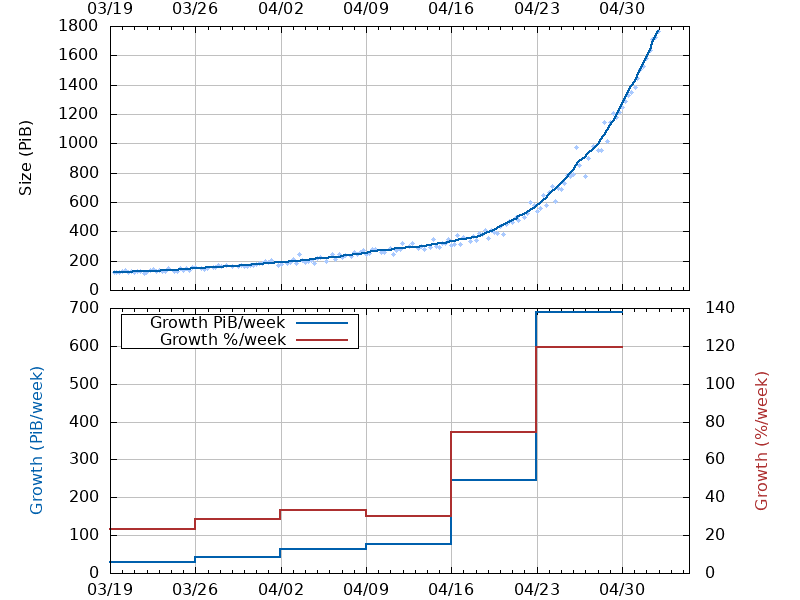
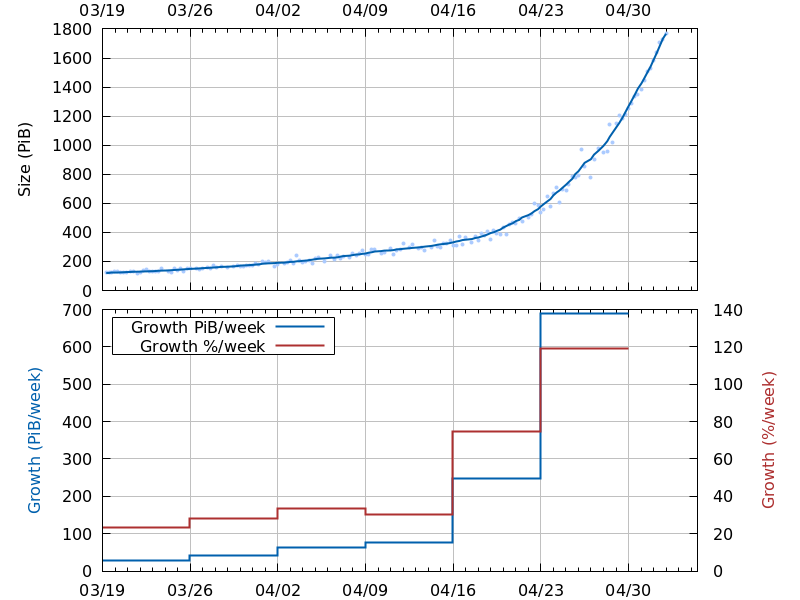
Use gnuplot terminals enhanced mode
Also remove x-axis constraints. Result still seems to work

diff --git a/README.md b/README.md
@@ -6,7 +6,7 @@ https://www.chiaexplorer.com/charts/netspace
 Open developer tools, look at the request to api2.chiaexplorer.com,
 which retrieves the graph data. Copy the response into netspace.json.
 
-Then run ./plot, which:
+Then run 'make', which:
 
       netspace.json
       |
@@ -17,4 +17,6 @@ Then run ./plot, which:
     gnuplot-------/
       |
       netspace.svg
+
+See Makefile for other possible make targets.
 
